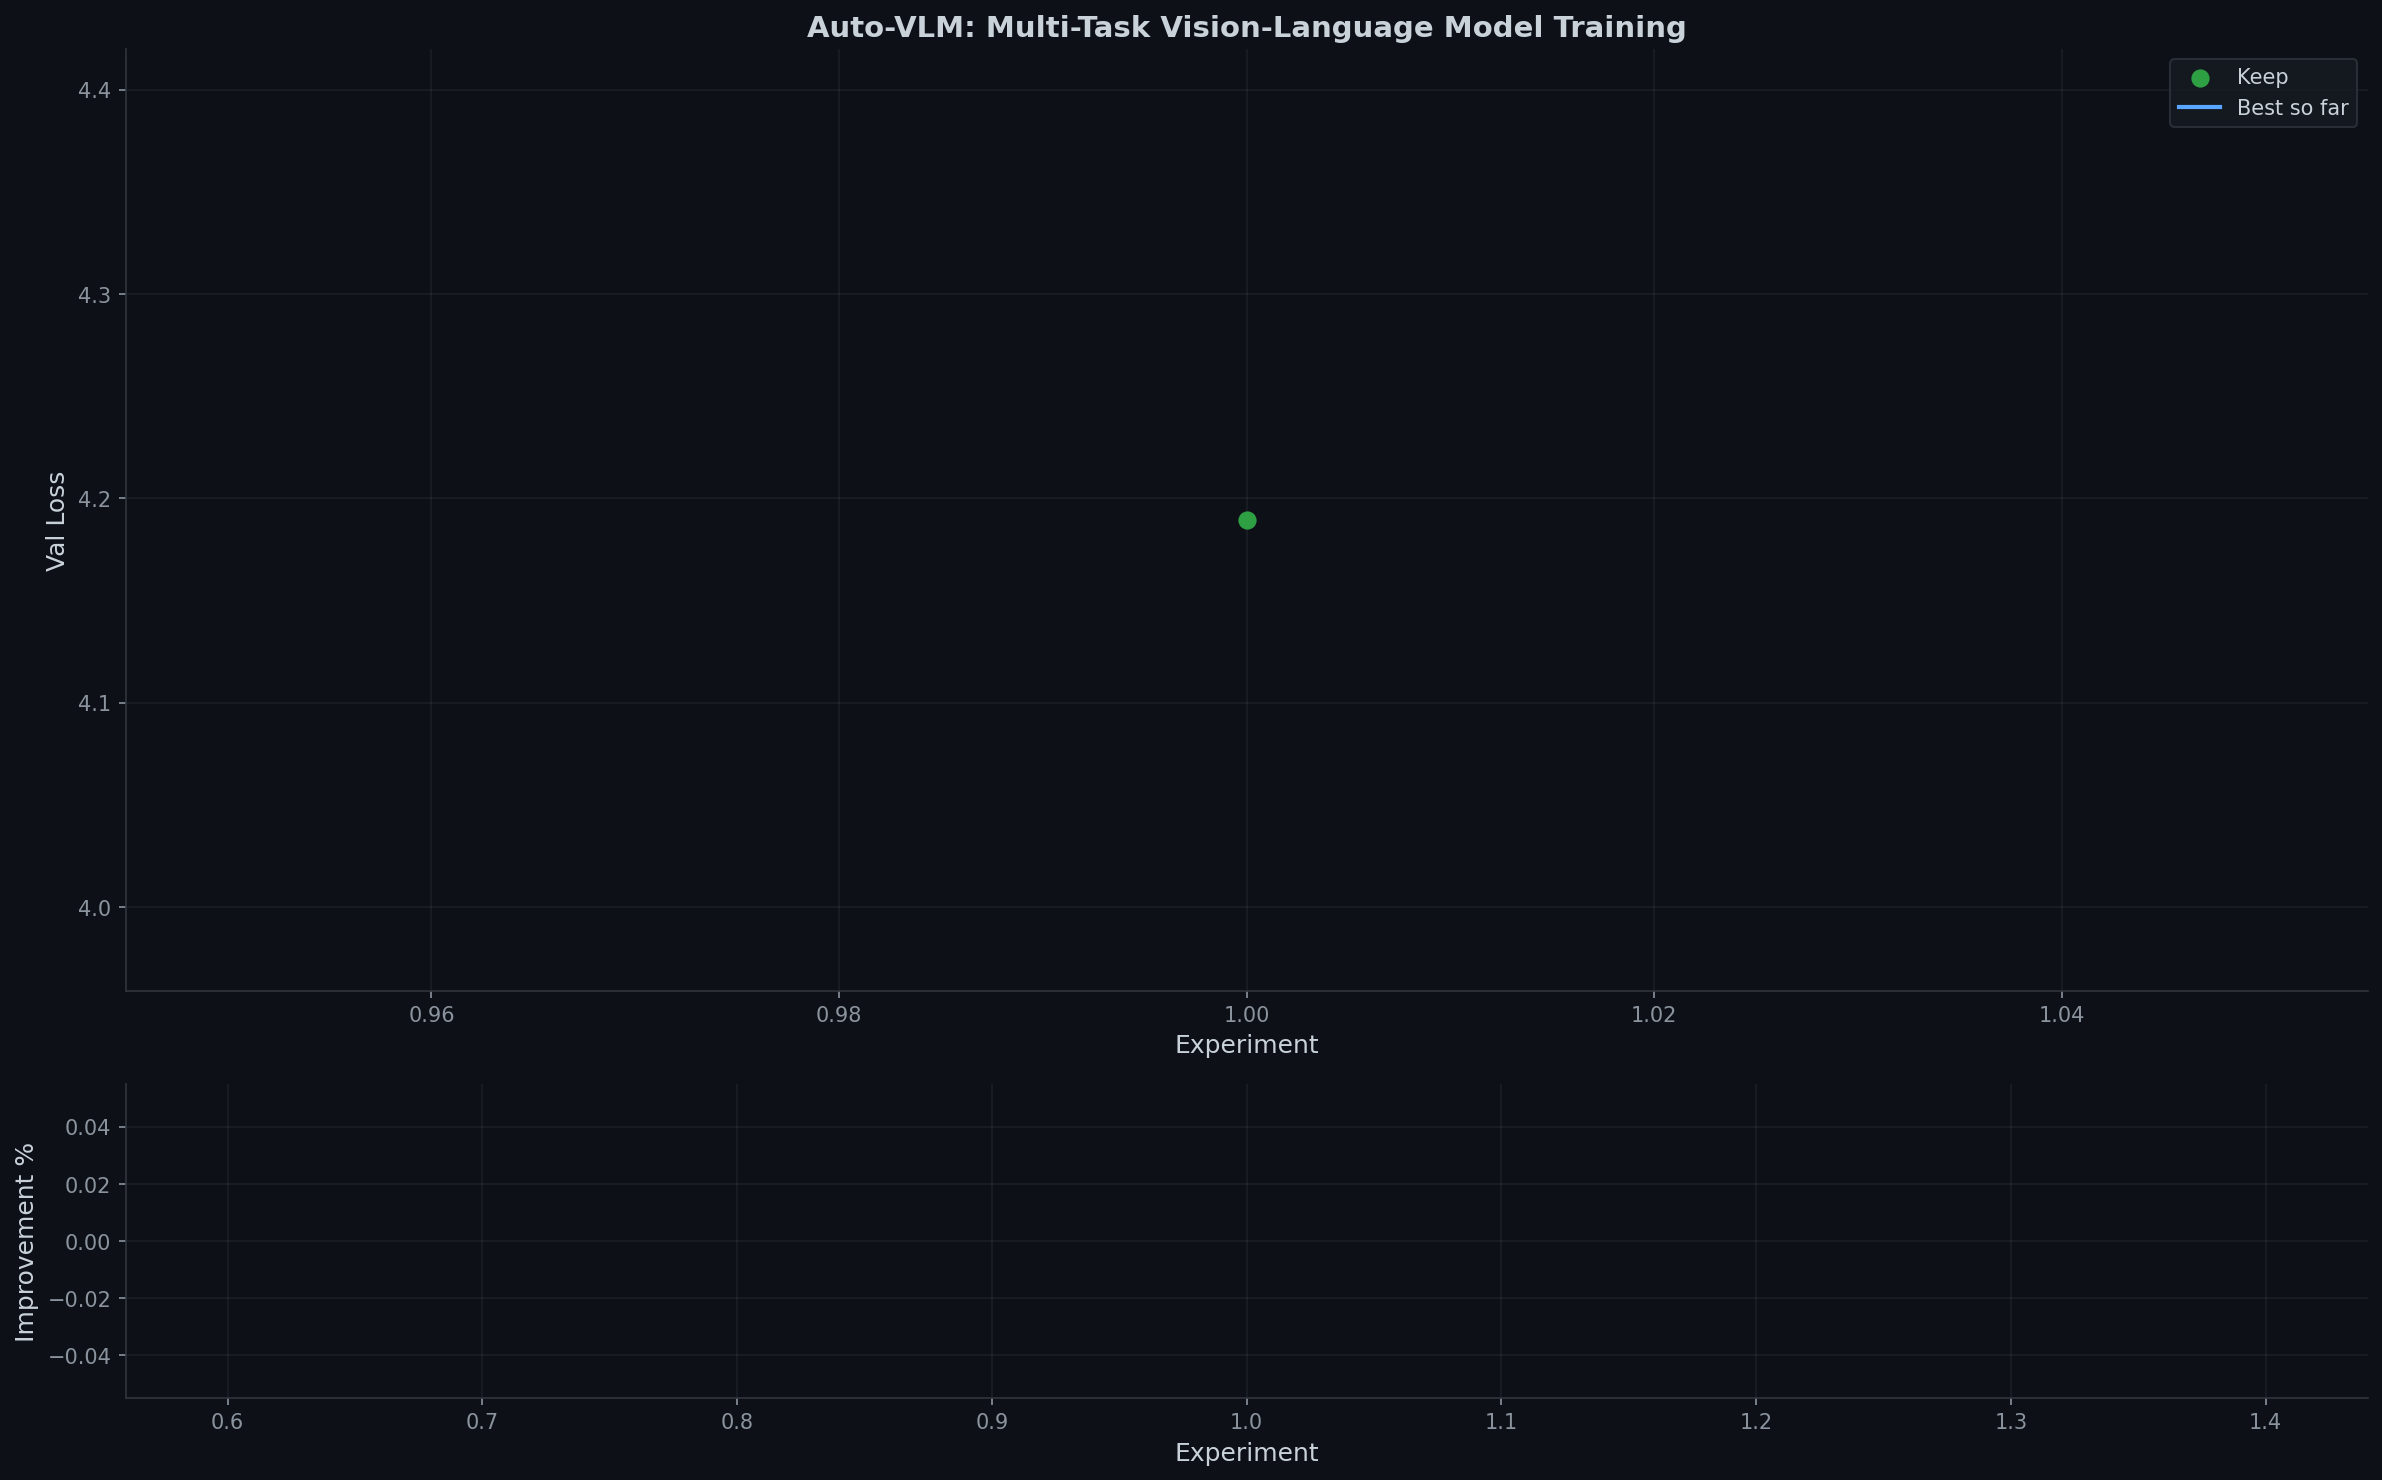
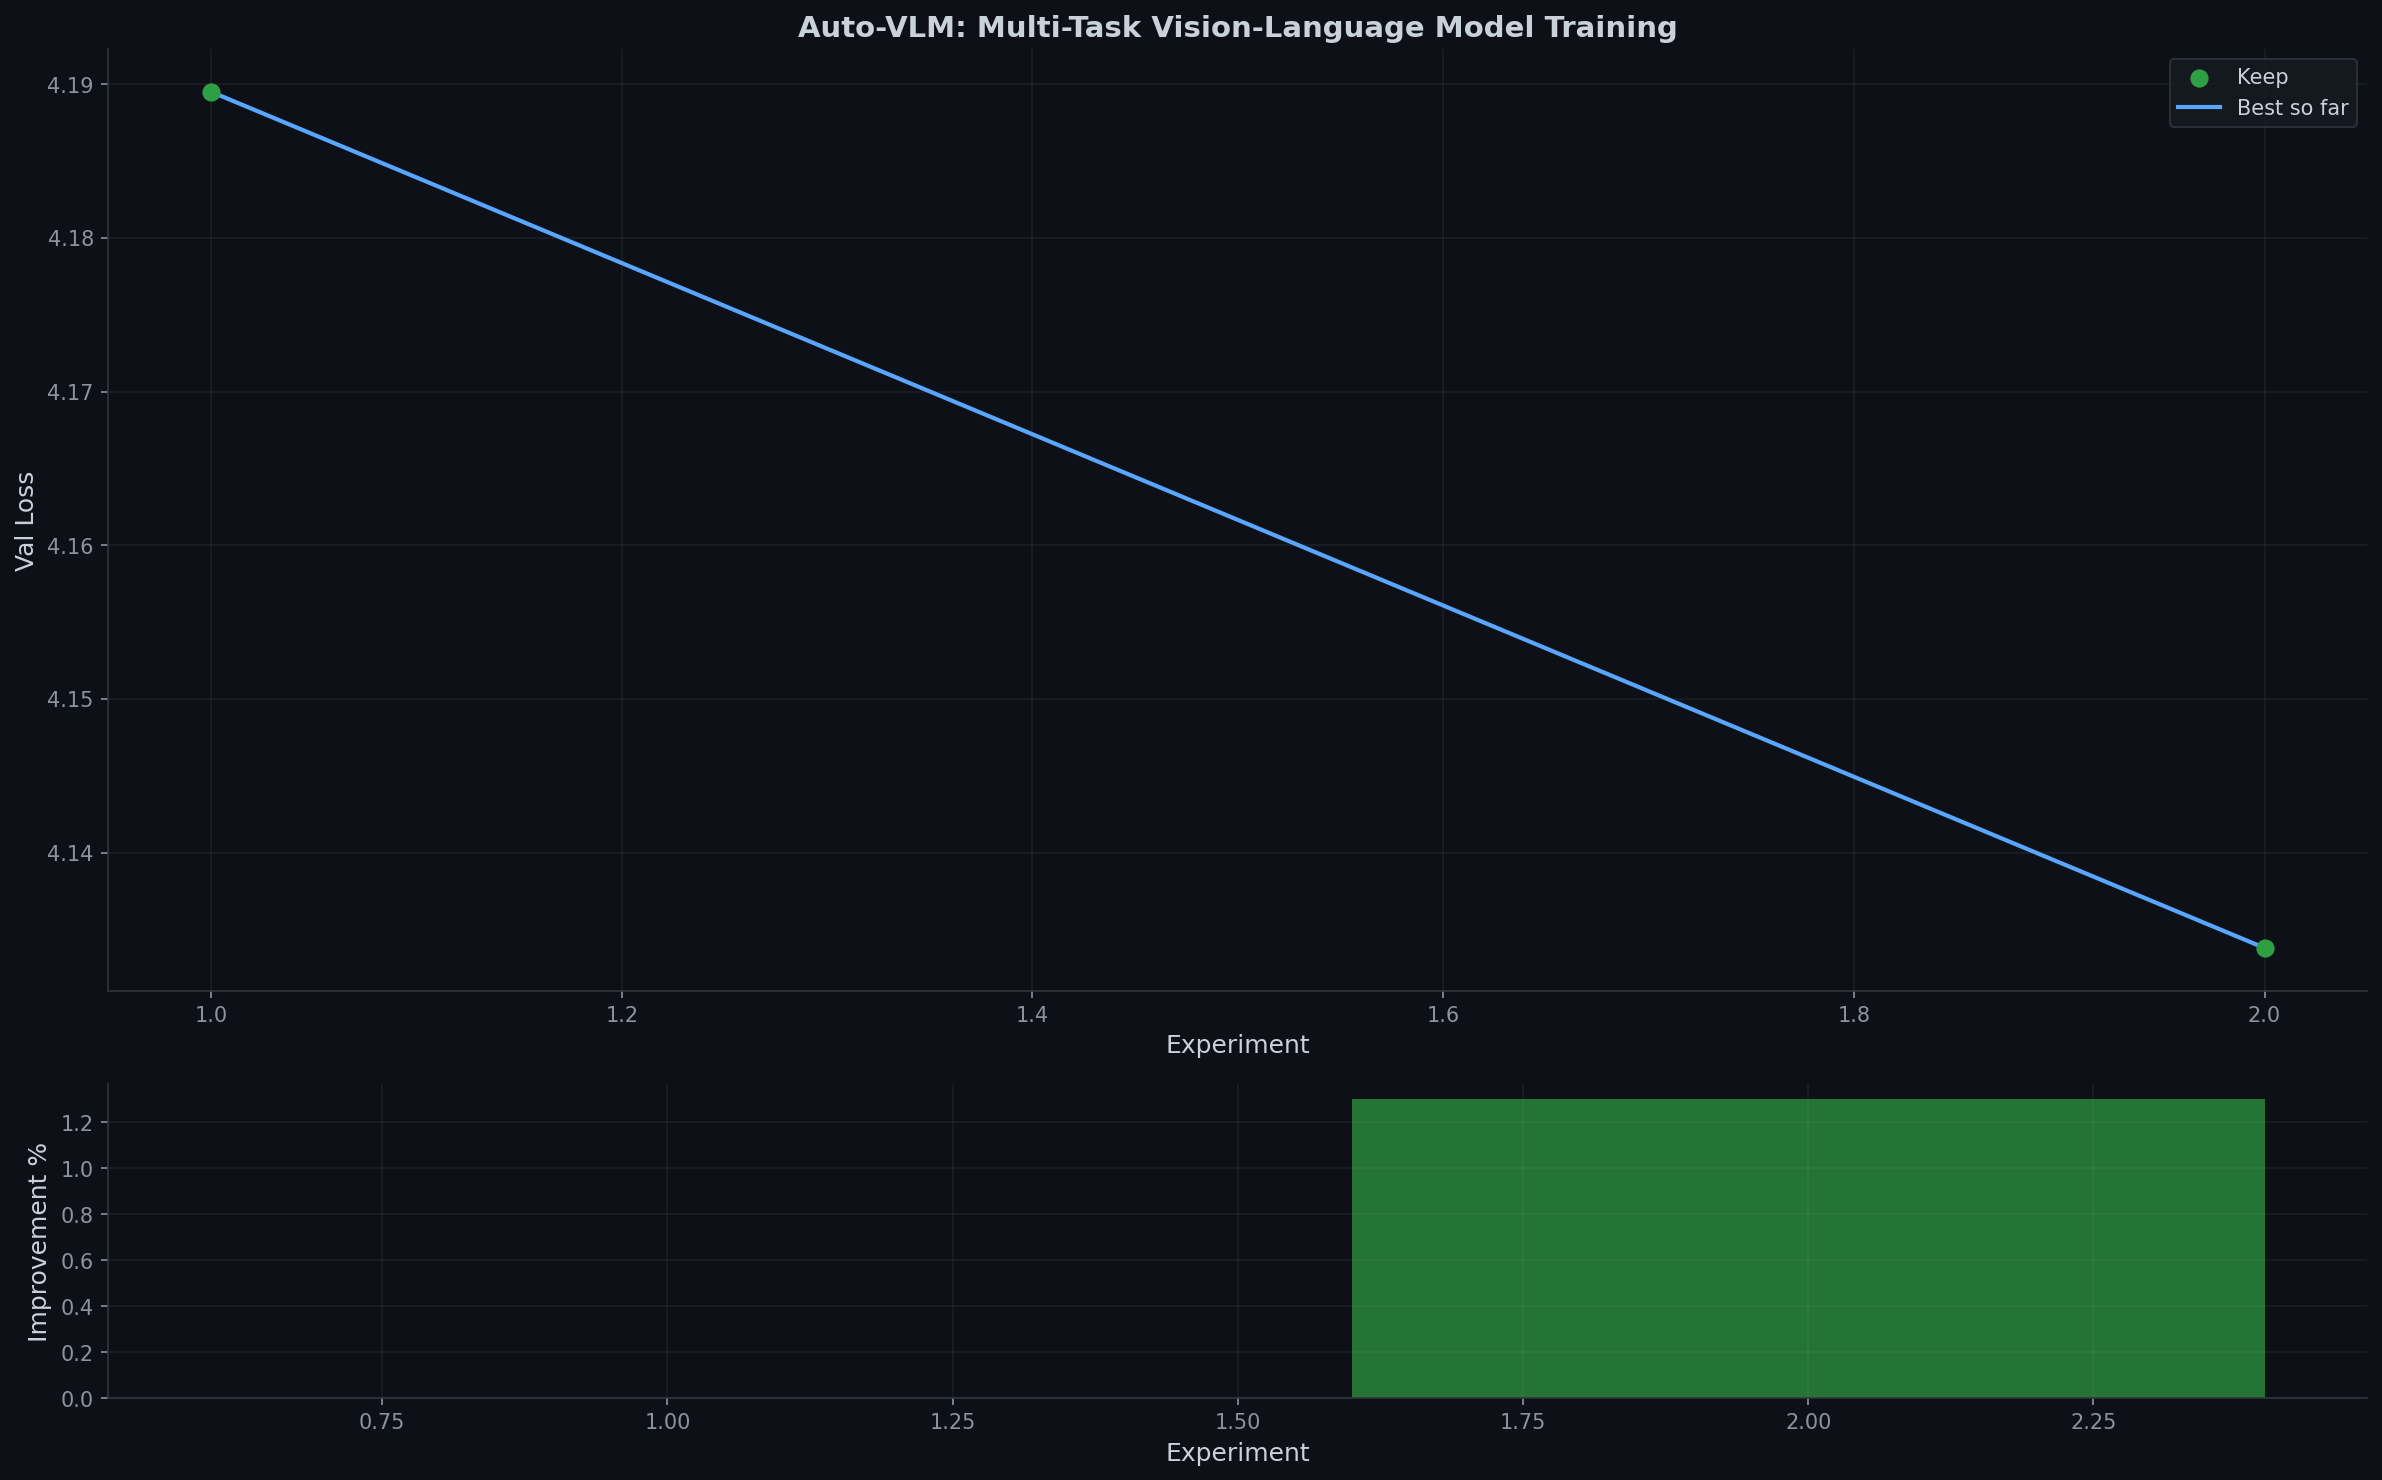
exp 002: lr=3e-3 (val=4.1338, 1.3%)

diff --git a/index.html b/index.html
@@ -148,19 +148,19 @@
         <div class="stats">
             <div class="stat-card">
                 <div class="label">Experiments</div>
-                <div class="value" id="total-exp">1</div>
+                <div class="value" id="total-exp">2</div>
             </div>
             <div class="stat-card">
                 <div class="label">Kept</div>
-                <div class="value green" id="kept-exp">1</div>
+                <div class="value green" id="kept-exp">2</div>
             </div>
             <div class="stat-card">
                 <div class="label">Best Val Loss</div>
-                <div class="value" id="best-loss">4.1895</div>
+                <div class="value" id="best-loss">4.1338</div>
             </div>
             <div class="stat-card">
                 <div class="label">Improvement</div>
-                <div class="value yellow" id="improvement">0.0%</div>
+                <div class="value yellow" id="improvement">1.3%</div>
             </div>
         </div>
 
